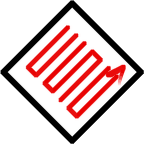
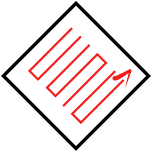
Start Supplemental Stipends 'Only what we offer' switch on; sharper Cadenza diamond
The Supplemental Stipends switch now starts on, matching District Overview.
The footer diamond is re-cut from the 2000px Cadenza logo at 4x display size.

Claude-Session: https://claude.ai/code/session_01SVSJmanyLp3oKyUCVDEC3c

Changed region(s): [[0.0, 0.0, 1.0, 1.0], [0.2778, 0.2778, 0.7222, 0.7222], [0.1667, 0.1667, 0.5556, 0.5556]]

diff --git a/index.html b/index.html
@@ -682,7 +682,7 @@ $('#alt').addEventListener('click',e=>{const t=e.target;let b;
 $('#alt').addEventListener('keydown',e=>{if(e.key==='Escape'&&DRILL){const d=DRILL;DRILL=null;render();focusPill(d)}});
 function goBack(){const r=RET;goTab('District Overview');if(r){DRILL=r.DRILL;TF=r.TF;OWN=r.OWN;render();const p=focusPill(DRILL);p&&p.closest('tr').scrollIntoView({block:'center'})}}
 ['#backbar','#gate'].forEach(s=>$(s).addEventListener('click',e=>{if(e.target.closest('.backbtn')){e.preventDefault();goBack()}}));
-let OWN=true,SOWN=false;$('#alt').addEventListener('change',e=>{if(e.target.id==='sown'){SOWN=e.target.checked;render()}});$('#alt').addEventListener('change',e=>{if(e.target.id==='own'){OWN=e.target.checked;render()}});
+let OWN=true,SOWN=true;$('#alt').addEventListener('change',e=>{if(e.target.id==='sown'){SOWN=e.target.checked;render()}});$('#alt').addEventListener('change',e=>{if(e.target.id==='own'){OWN=e.target.checked;render()}});
 let PRO=false;try{PRO=localStorage.getItem('tfaa-pro')==='1'}catch(e){}
 function setPro(on){PRO=on;document.body.classList.toggle('pro',on);const c=$('#pro');c.checked=on;c.setAttribute('aria-checked',String(on));try{localStorage.setItem('tfaa-pro',on?'1':'0')}catch(e){}
   if(!on){// clear anything only the advanced view can set, so no hidden filter stays on
